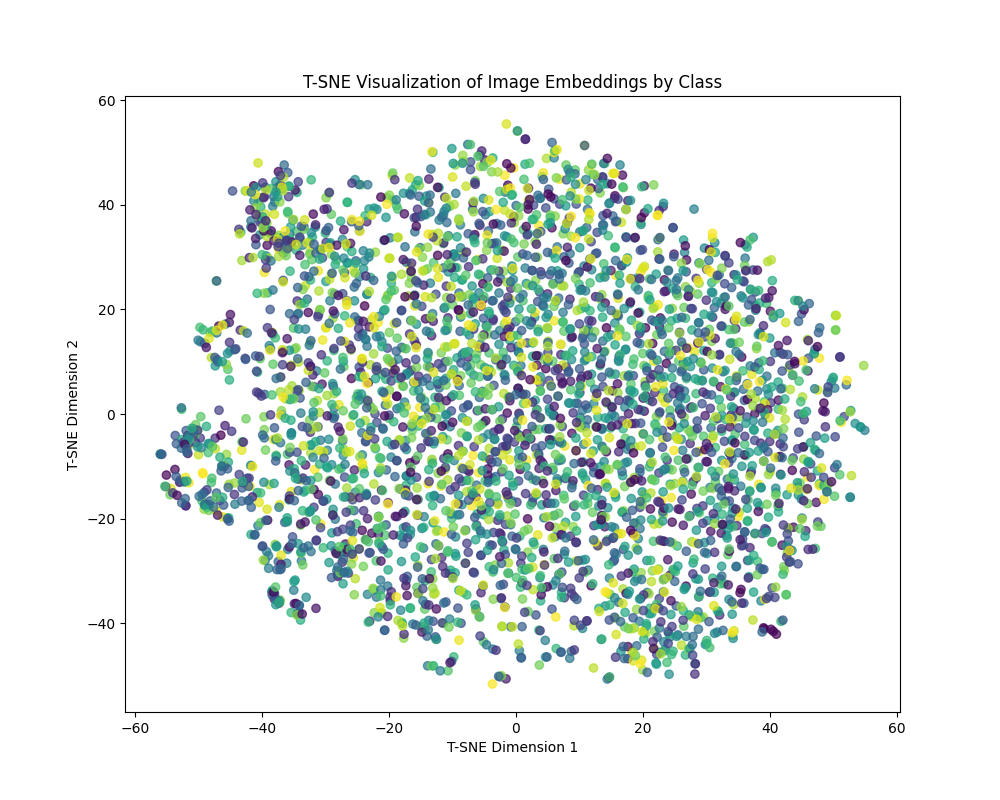
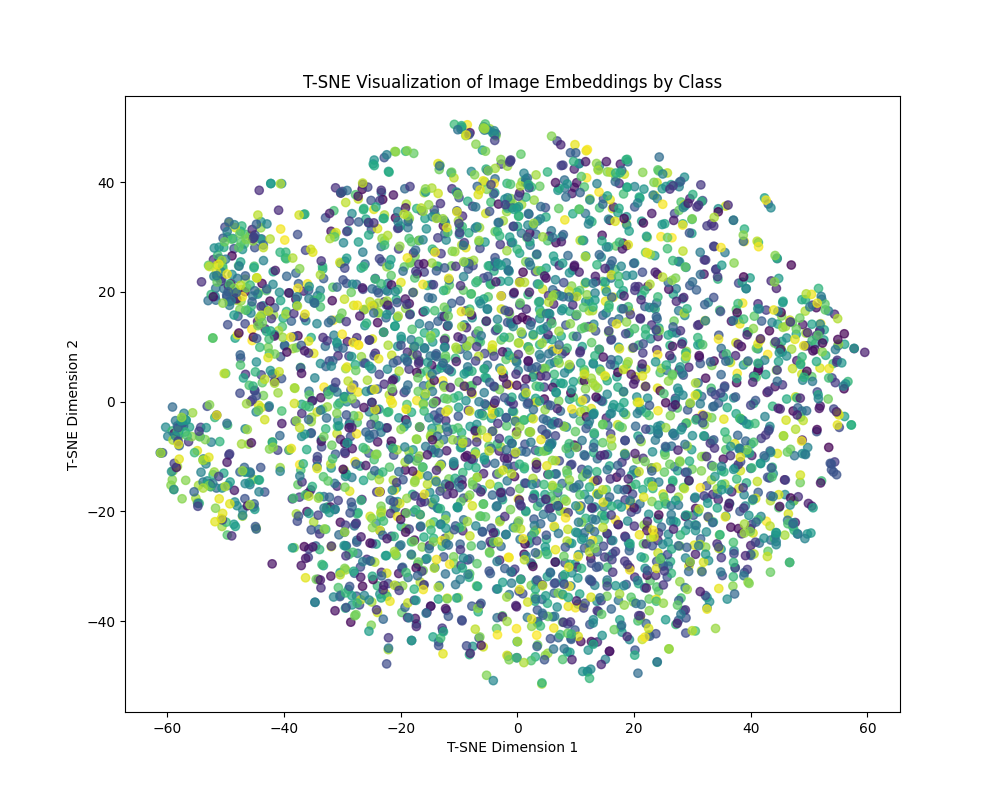
Added file for visualization using CLIP model

diff --git a/CLIPvis.py b/CLIPvis.py
@@ -1,0 +1,121 @@
+import torch
+import torchvision.transforms as transforms
+from transformers import CLIPModel, CLIPProcessor
+from torch.utils.data import DataLoader, Dataset
+from sklearn.manifold import TSNE
+import matplotlib.pyplot as plt
+import numpy as np
+from PIL import Image
+import os
+
+# Define paths to the images
+real_images = 'data/stanford-cars-real-train-fewshot'
+ai_generated_images = 'data/stanford-cars-synthetic-classwise-16'
+
+# Custom Dataset Class with synthetic/real labels and class labels
+class ImageDataset(Dataset):
+    def __init__(self, img_folder, synthetic_label, transform=None):
+        self.img_folder = img_folder
+        self.synthetic_label = synthetic_label
+        self.transform = transform
+        self.images = []
+        
+        # Collect images and their class labels based on subdirectory names
+        for class_folder in os.listdir(img_folder):
+            class_path = os.path.join(img_folder, class_folder)
+            if os.path.isdir(class_path):
+                for img_file in os.listdir(class_path):
+                    if img_file.endswith(('.png', '.jpg', '.jpeg')):
+                        self.images.append((os.path.join(class_path, img_file), class_folder))
+    
+    def __len__(self):
+        return len(self.images)
+
+    def __getitem__(self, idx):
+        image_path, class_label = self.images[idx]
+        image = Image.open(image_path).convert('RGB')
+        if self.transform:
+            image = self.transform(image)
+        
+        # Convert class label to an integer or a unique identifier (if classes are strings, use a mapping)
+        return image, class_label, self.synthetic_label
+
+# Define transformations and load the datasets
+transform = transforms.Compose([
+    transforms.Resize((224, 224)),
+    transforms.ToTensor(),
+    transforms.Normalize(mean=[0.48145466, 0.4578275, 0.40821073], std=[0.26862954, 0.26130258, 0.27577711]),
+])
+
+# Load datasets with synthetic label as 0 for real, 1 for AI-generated
+real_dataset = ImageDataset(real_images, synthetic_label=0, transform=transform)
+ai_dataset = ImageDataset(ai_generated_images, synthetic_label=1, transform=transform)
+
+# Combine datasets
+combined_dataset = real_dataset + ai_dataset
+data_loader = DataLoader(combined_dataset, batch_size=32, shuffle=False)
+
+# Load the CLIP model and processor
+model = CLIPModel.from_pretrained("openai/clip-vit-base-patch32")
+model.eval()  # Set to evaluation mode for feature extraction
+processor = CLIPProcessor.from_pretrained("openai/clip-vit-base-patch32")
+
+# Mapping class labels (e.g., "car1") to numeric labels for visualization
+unique_classes = list(set([label for _, label, _ in combined_dataset]))
+class_to_idx = {class_name: idx for idx, class_name in enumerate(unique_classes)}
+
+# Extract embeddings
+embeddings = []
+synthetic_labels = []
+class_labels = []
+
+with torch.no_grad():
+    for images, class_label, synthetic_label in data_loader:
+        # Use the processor to prepare the images
+        inputs = processor(images=images, return_tensors="pt")
+        
+        # Pass the images through the model and get image embeddings
+        outputs = model.get_image_features(**inputs).squeeze()
+        embeddings.append(outputs)
+        
+        # Convert class label to numeric using the mapping
+        numeric_class_labels = [class_to_idx[cl] for cl in class_label]
+        class_labels.extend(numeric_class_labels)
+        
+        synthetic_labels.extend(synthetic_label.tolist())
+
+# Convert to numpy arrays
+embeddings = torch.cat(embeddings).numpy()
+synthetic_labels = np.array(synthetic_labels)
+class_labels = np.array(class_labels)
+
+# Use T-SNE to visualize the embeddings
+tsne = TSNE(n_components=2, random_state=42)
+embeddings_tsne = tsne.fit_transform(embeddings)
+
+# Create output directory if it doesn't exist
+output_dir = './plots'
+os.makedirs(output_dir, exist_ok=True)
+
+# Plot the T-SNE results with synthetic/real labels
+plt.figure(figsize=(10, 8))
+scatter = plt.scatter(embeddings_tsne[:, 0], embeddings_tsne[:, 1], c=synthetic_labels, cmap='coolwarm', alpha=0.7)
+handles, _ = scatter.legend_elements()
+plt.legend(handles, ['Real', 'AI-generated'], title="Label")
+plt.title("T-SNE Visualization of Image Embeddings (Synthetic vs. Real)")
+plt.xlabel("T-SNE Dimension 1")
+plt.ylabel("T-SNE Dimension 2")
+# Save the figure
+plt.savefig(f"{output_dir}/CLIP_tsne_synthetic_vs_real.png")
+plt.close()  # Close the plot to free memory
+
+# Plot the T-SNE results color-coded by class labels
+plt.figure(figsize=(10, 8))
+scatter = plt.scatter(embeddings_tsne[:, 0], embeddings_tsne[:, 1], c=class_labels, cmap='viridis', alpha=0.7)
+plt.title("T-SNE Visualization of Image Embeddings by Class")
+plt.xlabel("T-SNE Dimension 1")
+plt.ylabel("T-SNE Dimension 2")
+# Save the figure
+plt.savefig(f"{output_dir}/CLIP_tsne_by_class.png")
+plt.close()  # Close the plot to free memory
+
